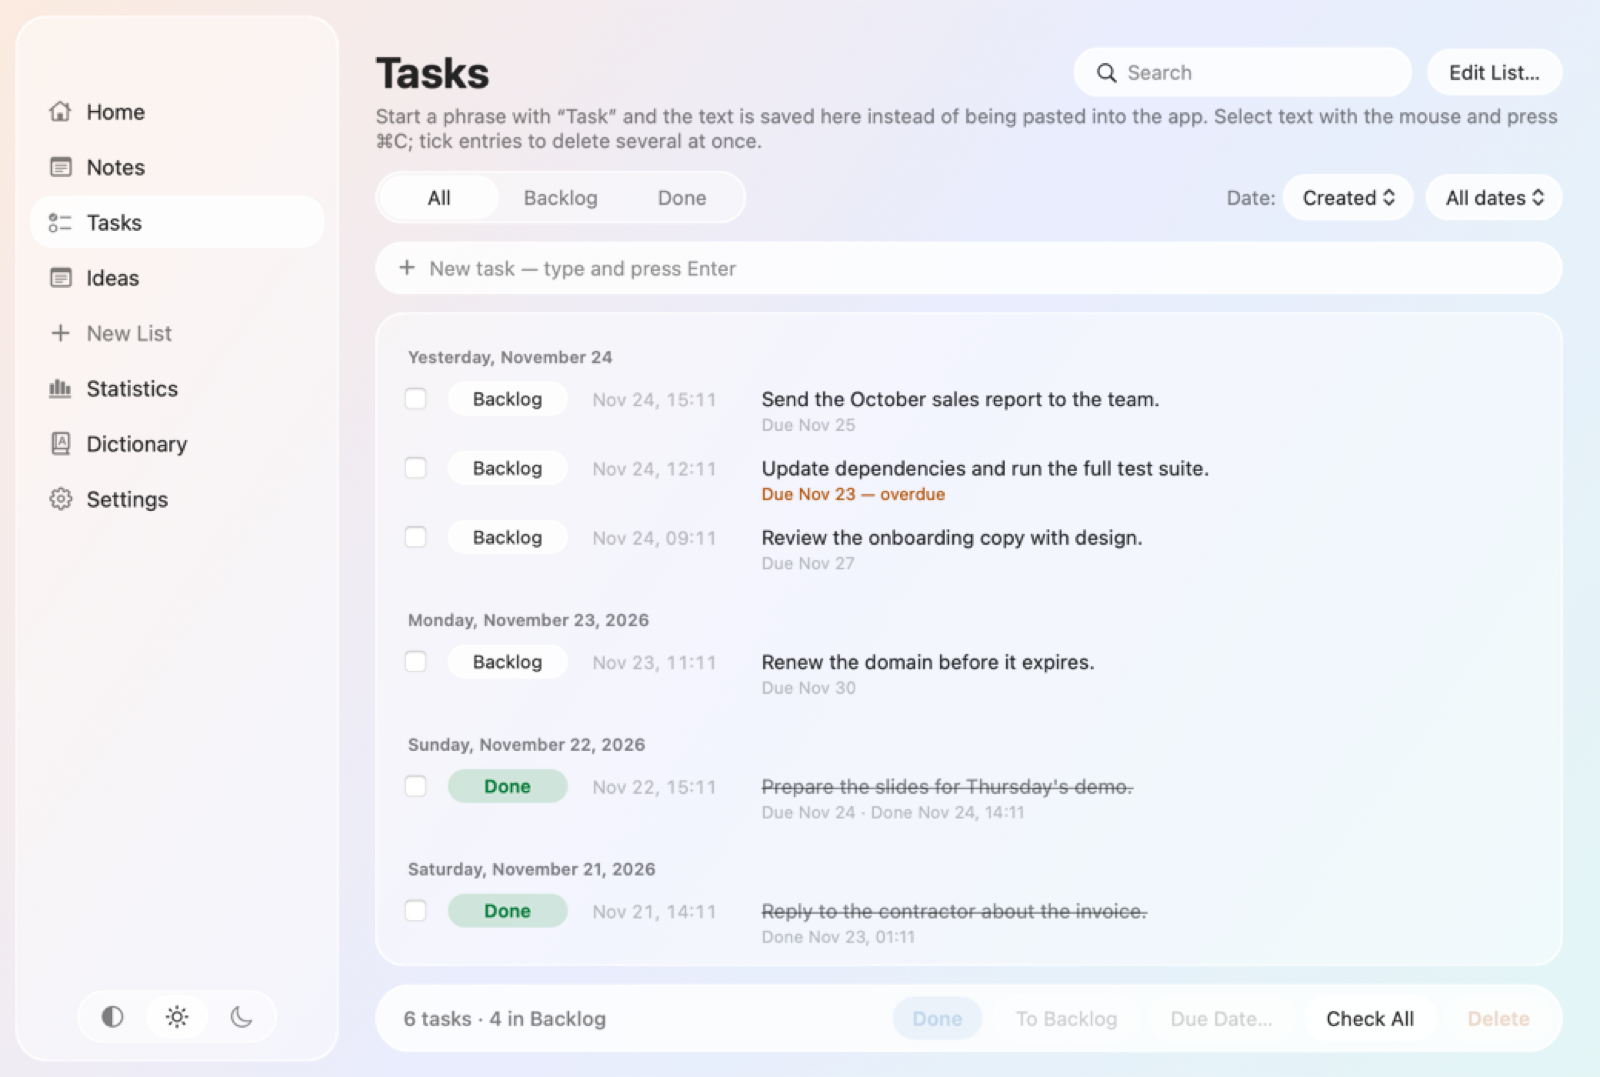
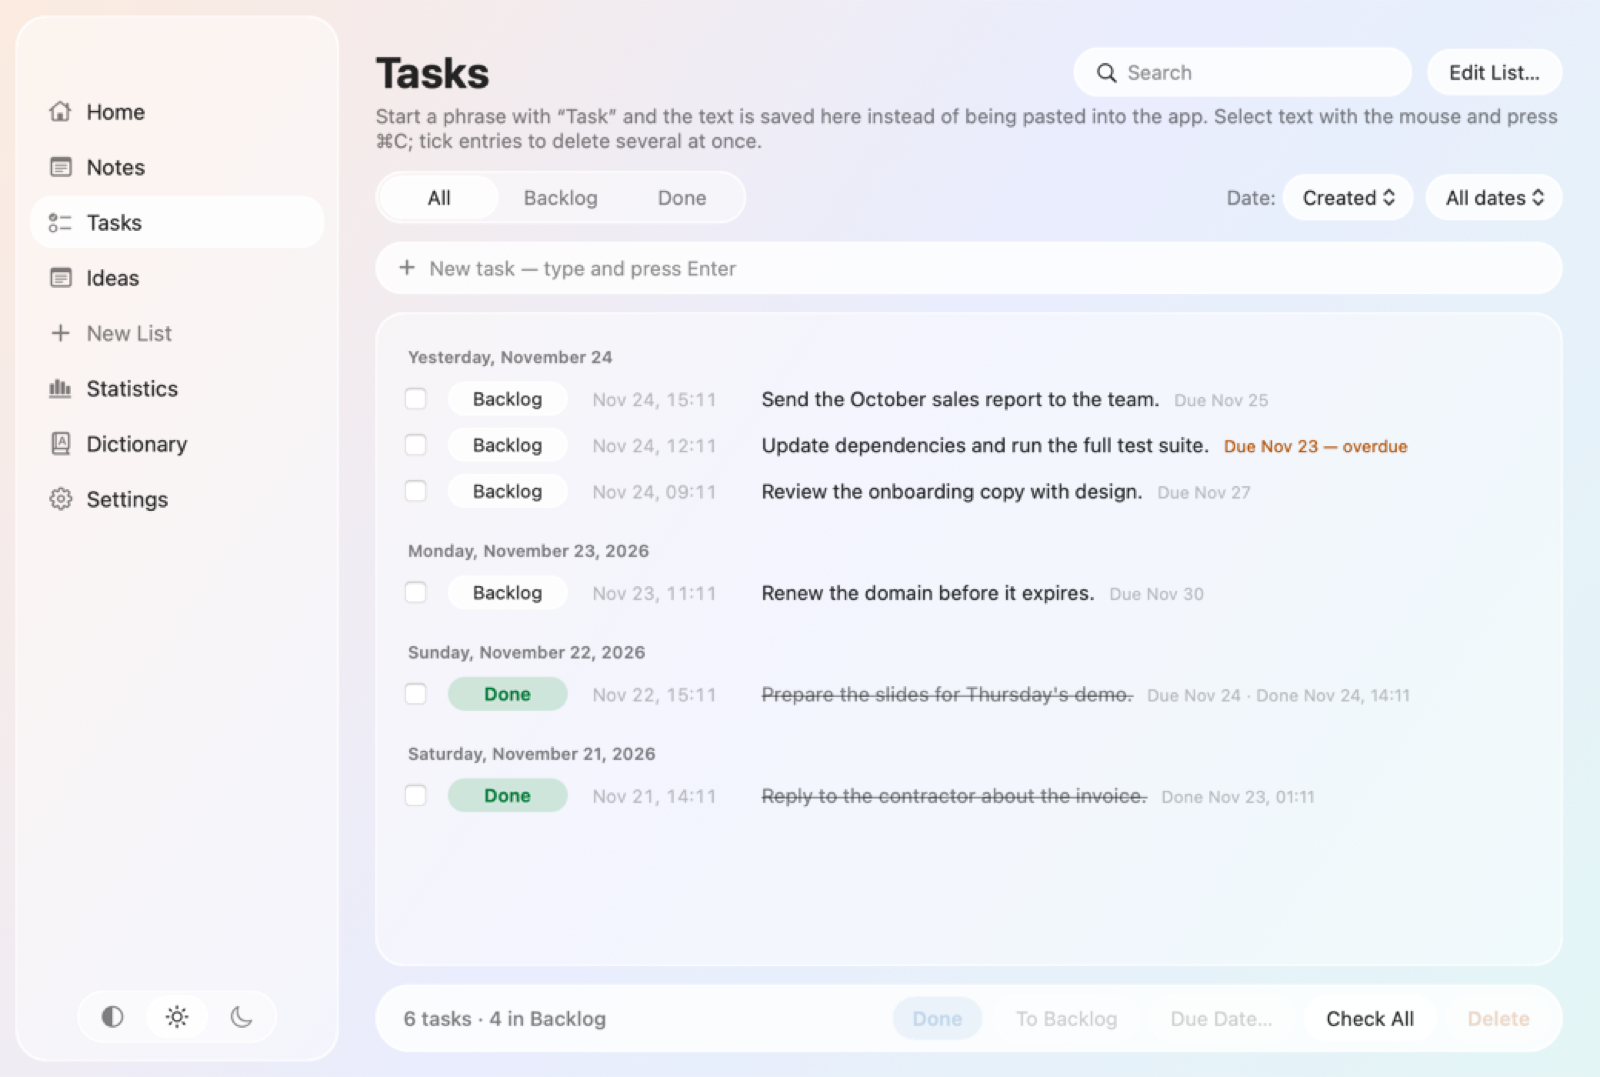
fix: task dates on the same line so status capsules are evenly spaced
Done and due dates used to sit on a second line under the task text, which
made those rows taller than plain ones and the status capsules uneven. They
now follow the text on the same line; row height is a static function covered
by a test.

diff --git a/Sources/App/Lists.swift b/Sources/App/Lists.swift
@@ -397,7 +397,7 @@ enum ListFilter {
     /// Date and time shown on every entry, e.g. "Nov 23, 10:04".
     static func stamp(_ date: Date) -> String { stampFmt.string(from: date) }
 
-    /// The small line under a task: "Due Nov 25 — overdue · Done Nov 24, 10:04".
+    /// The dates after a task text: "Due Nov 25 — overdue · Done Nov 24, 10:04".
     static func detail(_ item: ListItem, now: Date) -> String? {
         var parts: [String] = []
         if let due = item.due { parts.append(tr("Due ", "Срок: ") + shortDateFmt.string(from: due) + (isOverdue(item, now: now) ? tr(" — overdue", " — просрочено") : "")) }
@@ -888,20 +888,30 @@ final class ListPane: NSObject, NSTableViewDataSource, NSTableViewDelegate, NSSe
         return probe.fittingSize.height
     }()
 
-    private func itemText(_ i: ListItem) -> NSAttributedString {
+    /// The text of an entry. A task's due and done dates follow the text on the same line, so a one-line task
+    /// is as tall as any other and the status capsules stay evenly spaced.
+    static func itemText(_ i: ListItem, kind: VoiceList.Kind, now: Date) -> NSAttributedString {
         let para = NSMutableParagraphStyle()
         para.lineBreakMode = .byWordWrapping
         para.paragraphSpacing = 2
         let done = kind == .tasks && i.status == .done
-        var attrs: [NSAttributedString.Key: Any] = [.font: Self.textFont, .paragraphStyle: para,
+        var attrs: [NSAttributedString.Key: Any] = [.font: textFont, .paragraphStyle: para,
                                                      .foregroundColor: done ? NSColor.secondaryLabelColor : NSColor.labelColor]
         if done { attrs[.strikethroughStyle] = NSUnderlineStyle.single.rawValue }
         let s = NSMutableAttributedString(string: i.text, attributes: attrs)
-        if kind == .tasks, let d = ListFilter.detail(i, now: Date()) {
-            let color: NSColor = ListFilter.isOverdue(i, now: Date()) ? Brick.orangeText : .tertiaryLabelColor
-            s.append(NSAttributedString(string: "\n" + d, attributes: [.font: NSFont.systemFont(ofSize: 11), .foregroundColor: color, .paragraphStyle: para]))
+        if kind == .tasks, let d = ListFilter.detail(i, now: now) {
+            let color: NSColor = ListFilter.isOverdue(i, now: now) ? Brick.orangeText : .tertiaryLabelColor
+            s.append(NSAttributedString(string: "   " + d, attributes: [.font: NSFont.systemFont(ofSize: 11), .foregroundColor: color, .paragraphStyle: para]))
         }
         return s
+    }
+
+    /// Row height of an entry whose text column is `width` wide.
+    static func rowHeight(_ i: ListItem, kind: VoiceList.Kind, width: CGFloat, now: Date) -> CGFloat {
+        let w = max(100, width - 8)
+        let r = itemText(i, kind: kind, now: now).boundingRect(with: NSSize(width: w, height: .greatestFiniteMagnitude),
+                                                               options: [.usesLineFragmentOrigin, .usesFontLeading])
+        return max(ceil(r.height) + 14, kind == .tasks ? 30 : 0)
     }
 
     func tableView(_ tableView: NSTableView, viewFor col: NSTableColumn?, row: Int) -> NSView? {
@@ -956,7 +966,7 @@ final class ListPane: NSObject, NSTableViewDataSource, NSTableViewDelegate, NSSe
                 t.textColor = .tertiaryLabelColor
                 top = 7
             } else {
-                t.attributedStringValue = itemText(i)
+                t.attributedStringValue = Self.itemText(i, kind: kind, now: Date())
                 t.isSelectable = true   // select part of the text with the mouse, ⌘C
             }
         }
@@ -973,9 +983,7 @@ final class ListPane: NSObject, NSTableViewDataSource, NSTableViewDelegate, NSSe
         switch rows[row] {
         case .day: return 36
         case .item(let i):
-            let w = max(100, (tableView.tableColumns.last?.width ?? 600) - 8)
-            let r = itemText(i).boundingRect(with: NSSize(width: w, height: .greatestFiniteMagnitude), options: [.usesLineFragmentOrigin, .usesFontLeading])
-            return max(ceil(r.height) + 14, kind == .tasks ? 30 : 0)
+            return Self.rowHeight(i, kind: kind, width: tableView.tableColumns.last?.width ?? 600, now: Date())
         }
     }
 }

diff --git a/Tests/ListArchiveTests.swift b/Tests/ListArchiveTests.swift
@@ -4,6 +4,17 @@ import Cocoa
 /// typed in and edited, not only dictated.
 enum ListArchiveTests {
     static func run() {
+        T.test("lists: a done or due task is as tall as a plain one, so status capsules are evenly spaced") {
+            let now = Date()
+            let plain = ListItem(date: now, text: "Prepare the report.", lang: "en")
+            let done = ListItem(date: now, text: "Prepare the report.", lang: "en", status: .done, doneAt: now)
+            let due = ListItem(date: now, text: "Prepare the report.", lang: "en", due: now.addingTimeInterval(86400))
+            let h = ListPane.rowHeight(plain, kind: .tasks, width: 700, now: now)
+            T.eq(ListPane.rowHeight(done, kind: .tasks, width: 700, now: now), h, "done")
+            T.eq(ListPane.rowHeight(due, kind: .tasks, width: 700, now: now), h, "due")
+            let text = ListPane.itemText(done, kind: .tasks, now: now).string
+            T.ok(!text.contains("\n") && text.hasPrefix("Prepare the report.") && text.contains(ListFilter.stamp(now)), text)
+        }
         T.test("lists: an archived list leaves the sidebar and stops catching dictation, entries kept") {
             let store = VoiceLists.shared
             let l = store.addList(name: "Archive me", keywords: ["Архивка"], kind: .notes)

diff --git a/TEST_RESULTS.md b/TEST_RESULTS.md
@@ -16,7 +16,7 @@
 | Unit, Liquid Glass controls, theme and palette | 9 | ✅ | glass colors differ in Light/Dark mode, capsule button title/padding/disabled state, segmented capsule reports a pick once and raises only the chosen segment, the blur mask stretches and the backdrop blends behind the window, checkbox and status capsule centred on the first text line of a task, Auto/Light/Dark saved, applied and announced, icon-only theme switch keeps labels for VoiceOver, window buttons inside the sidebar panel, palette has no red (Light and Dark text colors too), Delete is orange |
 | Contract / E2E | N/A | – | no API; the GUI isn't automatable here (no Screen Recording / UI test runner) |
 
-**Total:** 140 passed, 0 failed, 1 skipped (update archive signed by another certificate: this local build is ad-hoc signed, so there is nothing to compare), 76 s (fast suite: 130 passed, 4 s). Every page of the main window was also rendered with `--demo-window` and checked by eye. Stream: ready 0.57 s after release; reload after idle 0.21 s.
+**Total:** 141 passed, 0 failed, 1 skipped (update archive signed by another certificate: this local build is ad-hoc signed, so there is nothing to compare), 76 s (fast suite: 131 passed, 4 s). Every page of the main window was also rendered with `--demo-window` and checked by eye. Stream: ready 0.57 s after release; reload after idle 0.21 s.
 
 ## Mutation testing
 

diff --git a/docs/CHANGELOG.md b/docs/CHANGELOG.md
@@ -16,6 +16,7 @@ Format: [Keep a Changelog](https://keepachangelog.com/en/1.1.0/). The app has no
 - **Edit an entry.** Double-click, Enter or right-click → “Edit…” changes the text of a note or task; its date stays.
 
 ### Fixed
+- Tasks: the due and done dates follow the text on the same line instead of a second line under it, so every one-line task is equally tall and the status capsules are evenly spaced.
 - Lists and the Home feed: the checkbox, time and day headers no longer touch the edge of the row highlight.
 - Statistics and Settings use the glass controls too: the period switch is a glass capsule, pop-up menus and buttons are glass capsules, and the right margin matches the other pages.
 - The theme switch icons are level and the chosen segment stays inside the capsule (capsule buttons no longer inherit the bezel insets).
